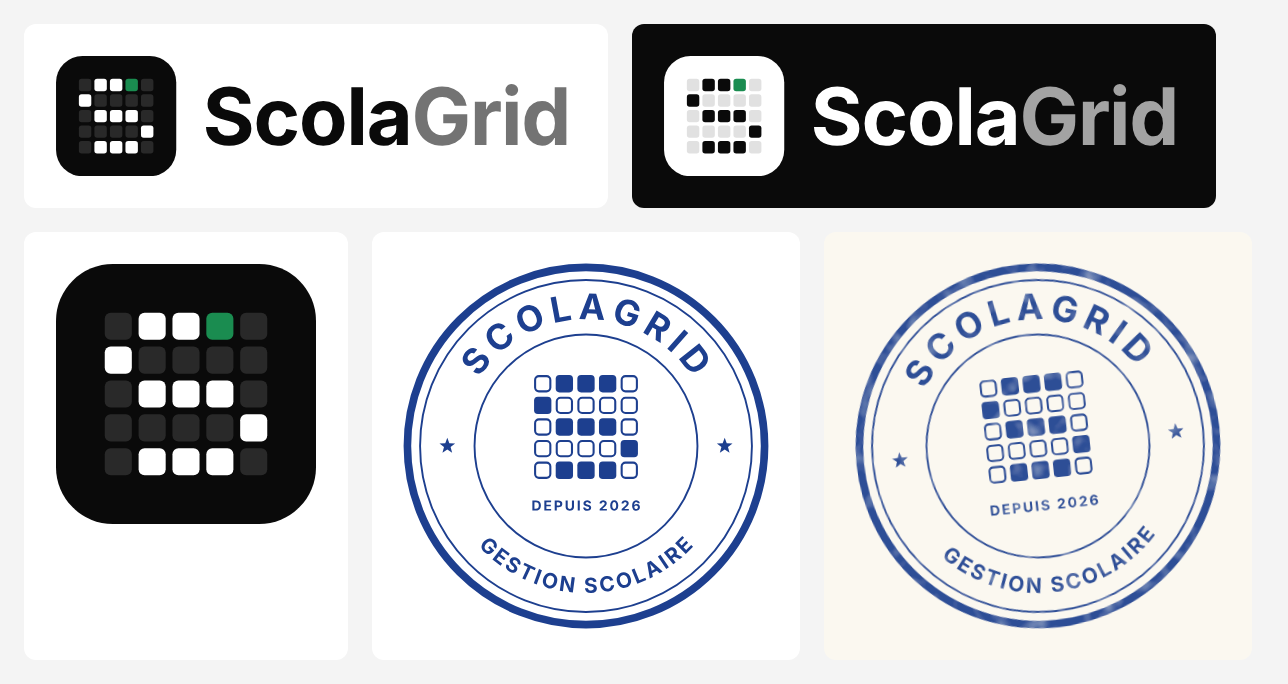
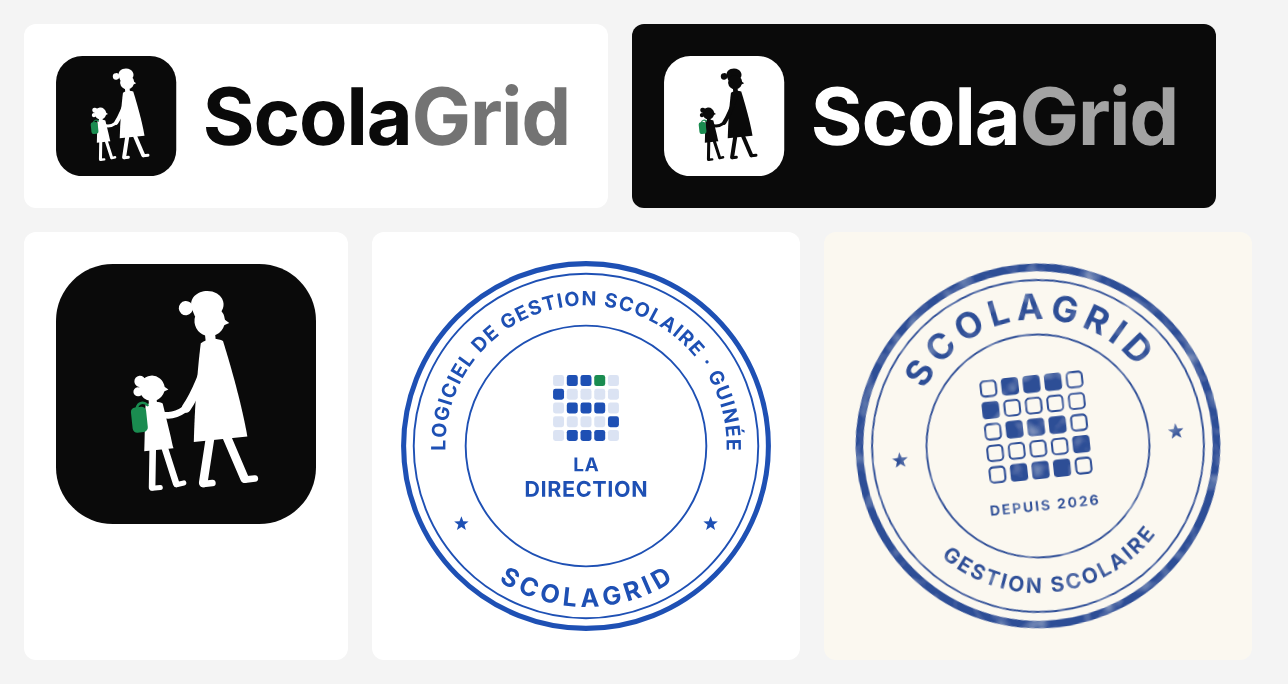
Marque : nouveau symbole, une maman et sa fille en route vers l'école
Silhouettes de profil, légèrement inclinées ; la fille porte un cartable vert.
Logo pour fond clair et sombre. Le symbole à grille est gardé en réserve.

Claude-Session: https://claude.ai/code/session_0122T6VeE6RqCURT9aMrpCiN

diff --git a/marque/outils/export_png.js b/marque/outils/export_png.js
@@ -3,6 +3,9 @@ const fs = require('fs');
 const dir = process.argv[2];
 const sorties = [
   ['scolagrid-symbole.svg', 1024, 'transparent'],
+  ['scolagrid-symbole-grille.svg', 1024, 'transparent'],
+  ['scolagrid-logo-grille.svg', 1600, 'transparent'],
+  ['scolagrid-logo-grille-fond-sombre.svg', 1600, 'transparent'],
   ['scolagrid-logo.svg', 1600, 'transparent'],
   ['scolagrid-logo-fond-sombre.svg', 1600, 'transparent'],
   ['scolagrid-cachet.svg', 1200, 'transparent'],

diff --git a/marque/outils/generer.py b/marque/outils/generer.py
@@ -85,7 +85,7 @@ def ecrire(nom, contenu):
     open(f'{SORTIE}/{nom}', 'w').write(contenu)
 
 # 1. Symbole (icône d'application) : carré arrondi noir, S blanc, case verte.
-ecrire('scolagrid-symbole.svg', svg(512, 512,
+ecrire('scolagrid-symbole-grille.svg', svg(512, 512,
     f'<rect width="512" height="512" rx="112" fill="{ENCRE}"/>\n' + grille(96, 96, 320, '#FFFFFF', 'rgba(255,255,255,0.13)', VERT),
     'ScolaGrid'))
 
@@ -101,8 +101,8 @@ def logo(fond_sombre):
     corps.append(f'<path d="{GRAS.texte("Grid", taille, x2, base, -2)}" fill="{"#A3A3A3" if fond_sombre else GRIS}"/>')
     l = int(x2 + GRAS.largeur('Grid', taille, -2) + 8)
     return svg(l, h, '\n'.join(corps), 'ScolaGrid')
-ecrire('scolagrid-logo.svg', logo(False))
-ecrire('scolagrid-logo-fond-sombre.svg', logo(True))
+ecrire('scolagrid-logo-grille.svg', logo(False))
+ecrire('scolagrid-logo-grille-fond-sombre.svg', logo(True))
 
 # 4. Cachet : anneaux, « SCOLAGRID » en haut, « GESTION SCOLAIRE » en bas, symbole au centre.
 def etoile(cx, cy, r, coul):
@@ -161,3 +161,59 @@ def cachet_plein():
         corps.append(f'<path d="{GRAS.texte(ligne, taille, c - GRAS.largeur(ligne, taille, 1)/2, y, 1)}" fill="{bleu}"/>')
     return svg(600, 600, '\n'.join(corps), 'Cachet ScolaGrid')
 ecrire('scolagrid-cachet-plein.svg', cachet_plein())
+
+
+# 6. Symbole principal : une maman tient la main de sa fille, qui porte son
+# cartable (vert) ; de profil, elles marchent vers l'école, légèrement inclinées.
+def scene(c, vert):
+    """Maman (foulard, robe) tenant la main de sa fille (cartable), de profil, marchant vers la droite."""
+    return f'''
+<g transform="rotate(-6 256 300) translate(-14 0)" fill="{c}" stroke="{c}" stroke-linecap="round" stroke-linejoin="round">
+  <g transform="translate(120 0)">
+  <!-- Maman -->
+  <path stroke="none" d="M184 92 C176 62 214 50 236 66 C252 78 248 98 238 104 L188 106 Z"/>
+  <circle stroke="none" cx="172" cy="88" r="14"/>
+  <circle stroke="none" cx="216" cy="118" r="30"/>
+  <path stroke="none" d="M243 116 L254 126 L242 130 Z"/>
+  <rect stroke="none" x="204" y="140" width="20" height="22" rx="6"/>
+  <path stroke="none" d="M194 160 C206 152 226 152 238 160 C248 210 262 290 266 352 L160 352 C168 290 182 210 194 160 Z"/>
+  <path fill="none" stroke-width="18" d="M214 176 C196 214 176 256 152 284"/>
+  <path fill="none" stroke-width="17" d="M226 350 L252 434"/>
+  <path fill="none" stroke-width="17" d="M192 350 L170 434"/>
+  <path fill="none" stroke-width="13" d="M252 436 L272 436"/>
+  <path fill="none" stroke-width="13" d="M170 436 L188 436"/>
+  </g>
+  <g transform="translate(-125 0)">
+  <!-- Fille -->
+  <circle stroke="none" cx="334" cy="238" r="25"/>
+  <circle stroke="none" cx="312" cy="222" r="11"/>
+  <circle stroke="none" cx="306" cy="242" r="9"/>
+  <path stroke="none" d="M357 236 L366 244 L356 247 Z"/>
+  <rect stroke="none" x="325" y="258" width="16" height="16" rx="5"/>
+  <path stroke="none" d="M318 270 C328 264 344 264 352 270 L360 330 C362 344 362 352 364 360 L306 360 C308 346 310 330 312 314 Z"/>
+  <path fill="none" stroke-width="13" d="M340 286 C358 300 376 296 394 286"/>
+  <path fill="none" stroke-width="13" d="M323 358 L314 432"/>
+  <path fill="none" stroke-width="13" d="M347 358 L362 430"/>
+  <path fill="none" stroke-width="10" d="M314 434 L330 434"/>
+  <path fill="none" stroke-width="10" d="M362 432 L377 430"/>
+  <!-- Cartable -->
+  <rect stroke="none" fill="{vert}" x="288" y="272" width="30" height="50" rx="9"/>
+  <path fill="none" stroke="{vert}" stroke-width="5" d="M300 274 C304 262 316 262 322 270"/>
+  </g>
+</g>'''
+
+
+ecrire('scolagrid-symbole.svg', svg(512, 512, f'<rect width="512" height="512" rx="112" fill="{ENCRE}"/>' + scene('#FFFFFF', VERT), 'ScolaGrid'))
+
+def logo_famille(fond_sombre):
+    h = 200; m = 200
+    fond, trait = ('#FFFFFF', ENCRE) if fond_sombre else (ENCRE, '#FFFFFF')
+    corps = [f'<g transform="scale({m/512})"><rect width="512" height="512" rx="112" fill="{fond}"/>{scene(trait, VERT)}</g>']
+    taille = 132; base = 148; x = m + 44
+    corps.append(f'<path d="{GRAS.texte("Scola", taille, x, base, -2)}" fill="{"#FFFFFF" if fond_sombre else ENCRE}"/>')
+    x2 = x + GRAS.largeur('Scola', taille, -2) - 2
+    corps.append(f'<path d="{GRAS.texte("Grid", taille, x2, base, -2)}" fill="{"#A3A3A3" if fond_sombre else GRIS}"/>')
+    l = int(x2 + GRAS.largeur('Grid', taille, -2) + 8)
+    return svg(l, h, '\n'.join(corps), 'ScolaGrid')
+ecrire('scolagrid-logo.svg', logo_famille(False))
+ecrire('scolagrid-logo-fond-sombre.svg', logo_famille(True))

diff --git a/marque/LISEZMOI.md b/marque/LISEZMOI.md
@@ -1,7 +1,10 @@
 # Marque ScolaGrid
 
-- `scolagrid-symbole` : le symbole seul (icône d'application) — un « S » dessiné
-  dans une grille de 5 × 5 cases, la première case en vert.
+- `scolagrid-symbole` : le symbole seul (icône d'application) — une maman tient la
+  main de sa fille, qui porte son cartable (vert) ; de profil, elles marchent vers
+  l'école, légèrement inclinées.
+- `scolagrid-symbole-grille`, `scolagrid-logo-grille…` : la première proposition (un « S »
+  dessiné dans une grille de 5 × 5 cases), gardée en réserve ; le cachet l'utilise encore.
 - `scolagrid-logo` : symbole + nom, pour fond clair ; `scolagrid-logo-fond-sombre` pour fond sombre.
 - `scolagrid-cachet` : cachet rond, encre bleue, net (documents numériques) ;
   `scolagrid-cachet-encre` : même cachet avec un effet d'encre (aperçus, présentations) ;
